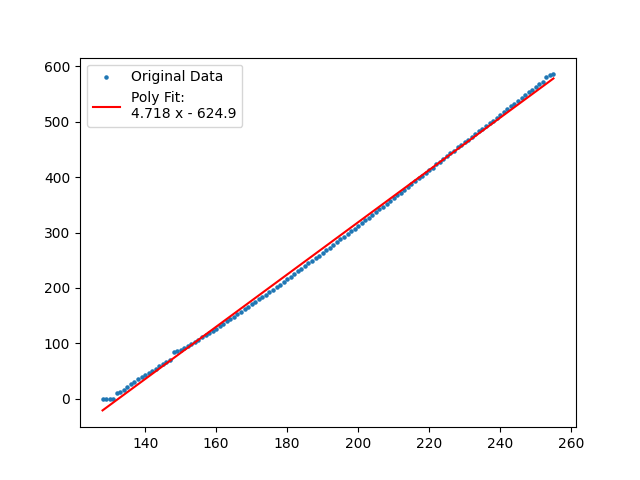
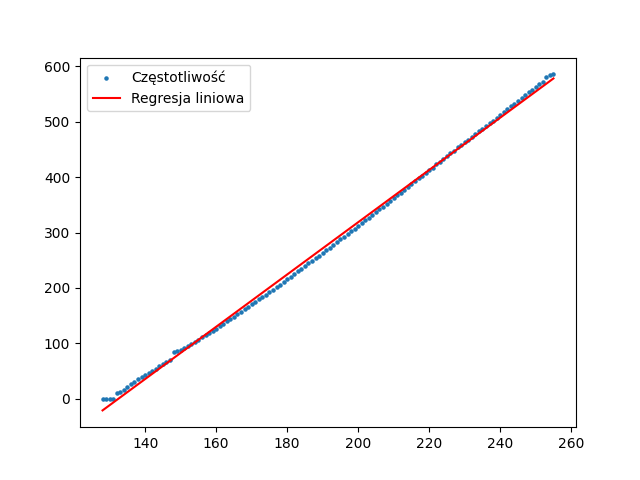
More graphs

Changed region(s): [[0.125, 0.125, 0.4062, 0.25]]

diff --git a/communication/find_matching_function.py b/communication/find_matching_function.py
@@ -19,8 +19,8 @@ def process_characteristics(file_path):
     y_fit = poly_func(x_fit)
 
     # Plot
-    plt.scatter(x, y, label="Original Data", s=5)
-    plt.plot(x_fit, y_fit, label=f"Poly Fit: {poly_func}", color="red")
+    plt.scatter(x, y, label="Częstotliwość", s=5)
+    plt.plot(x_fit, y_fit, label=f"Regresja liniowa", color="red")
     plt.legend()
     plt.savefig('LINEAR REG')
     plt.show()
